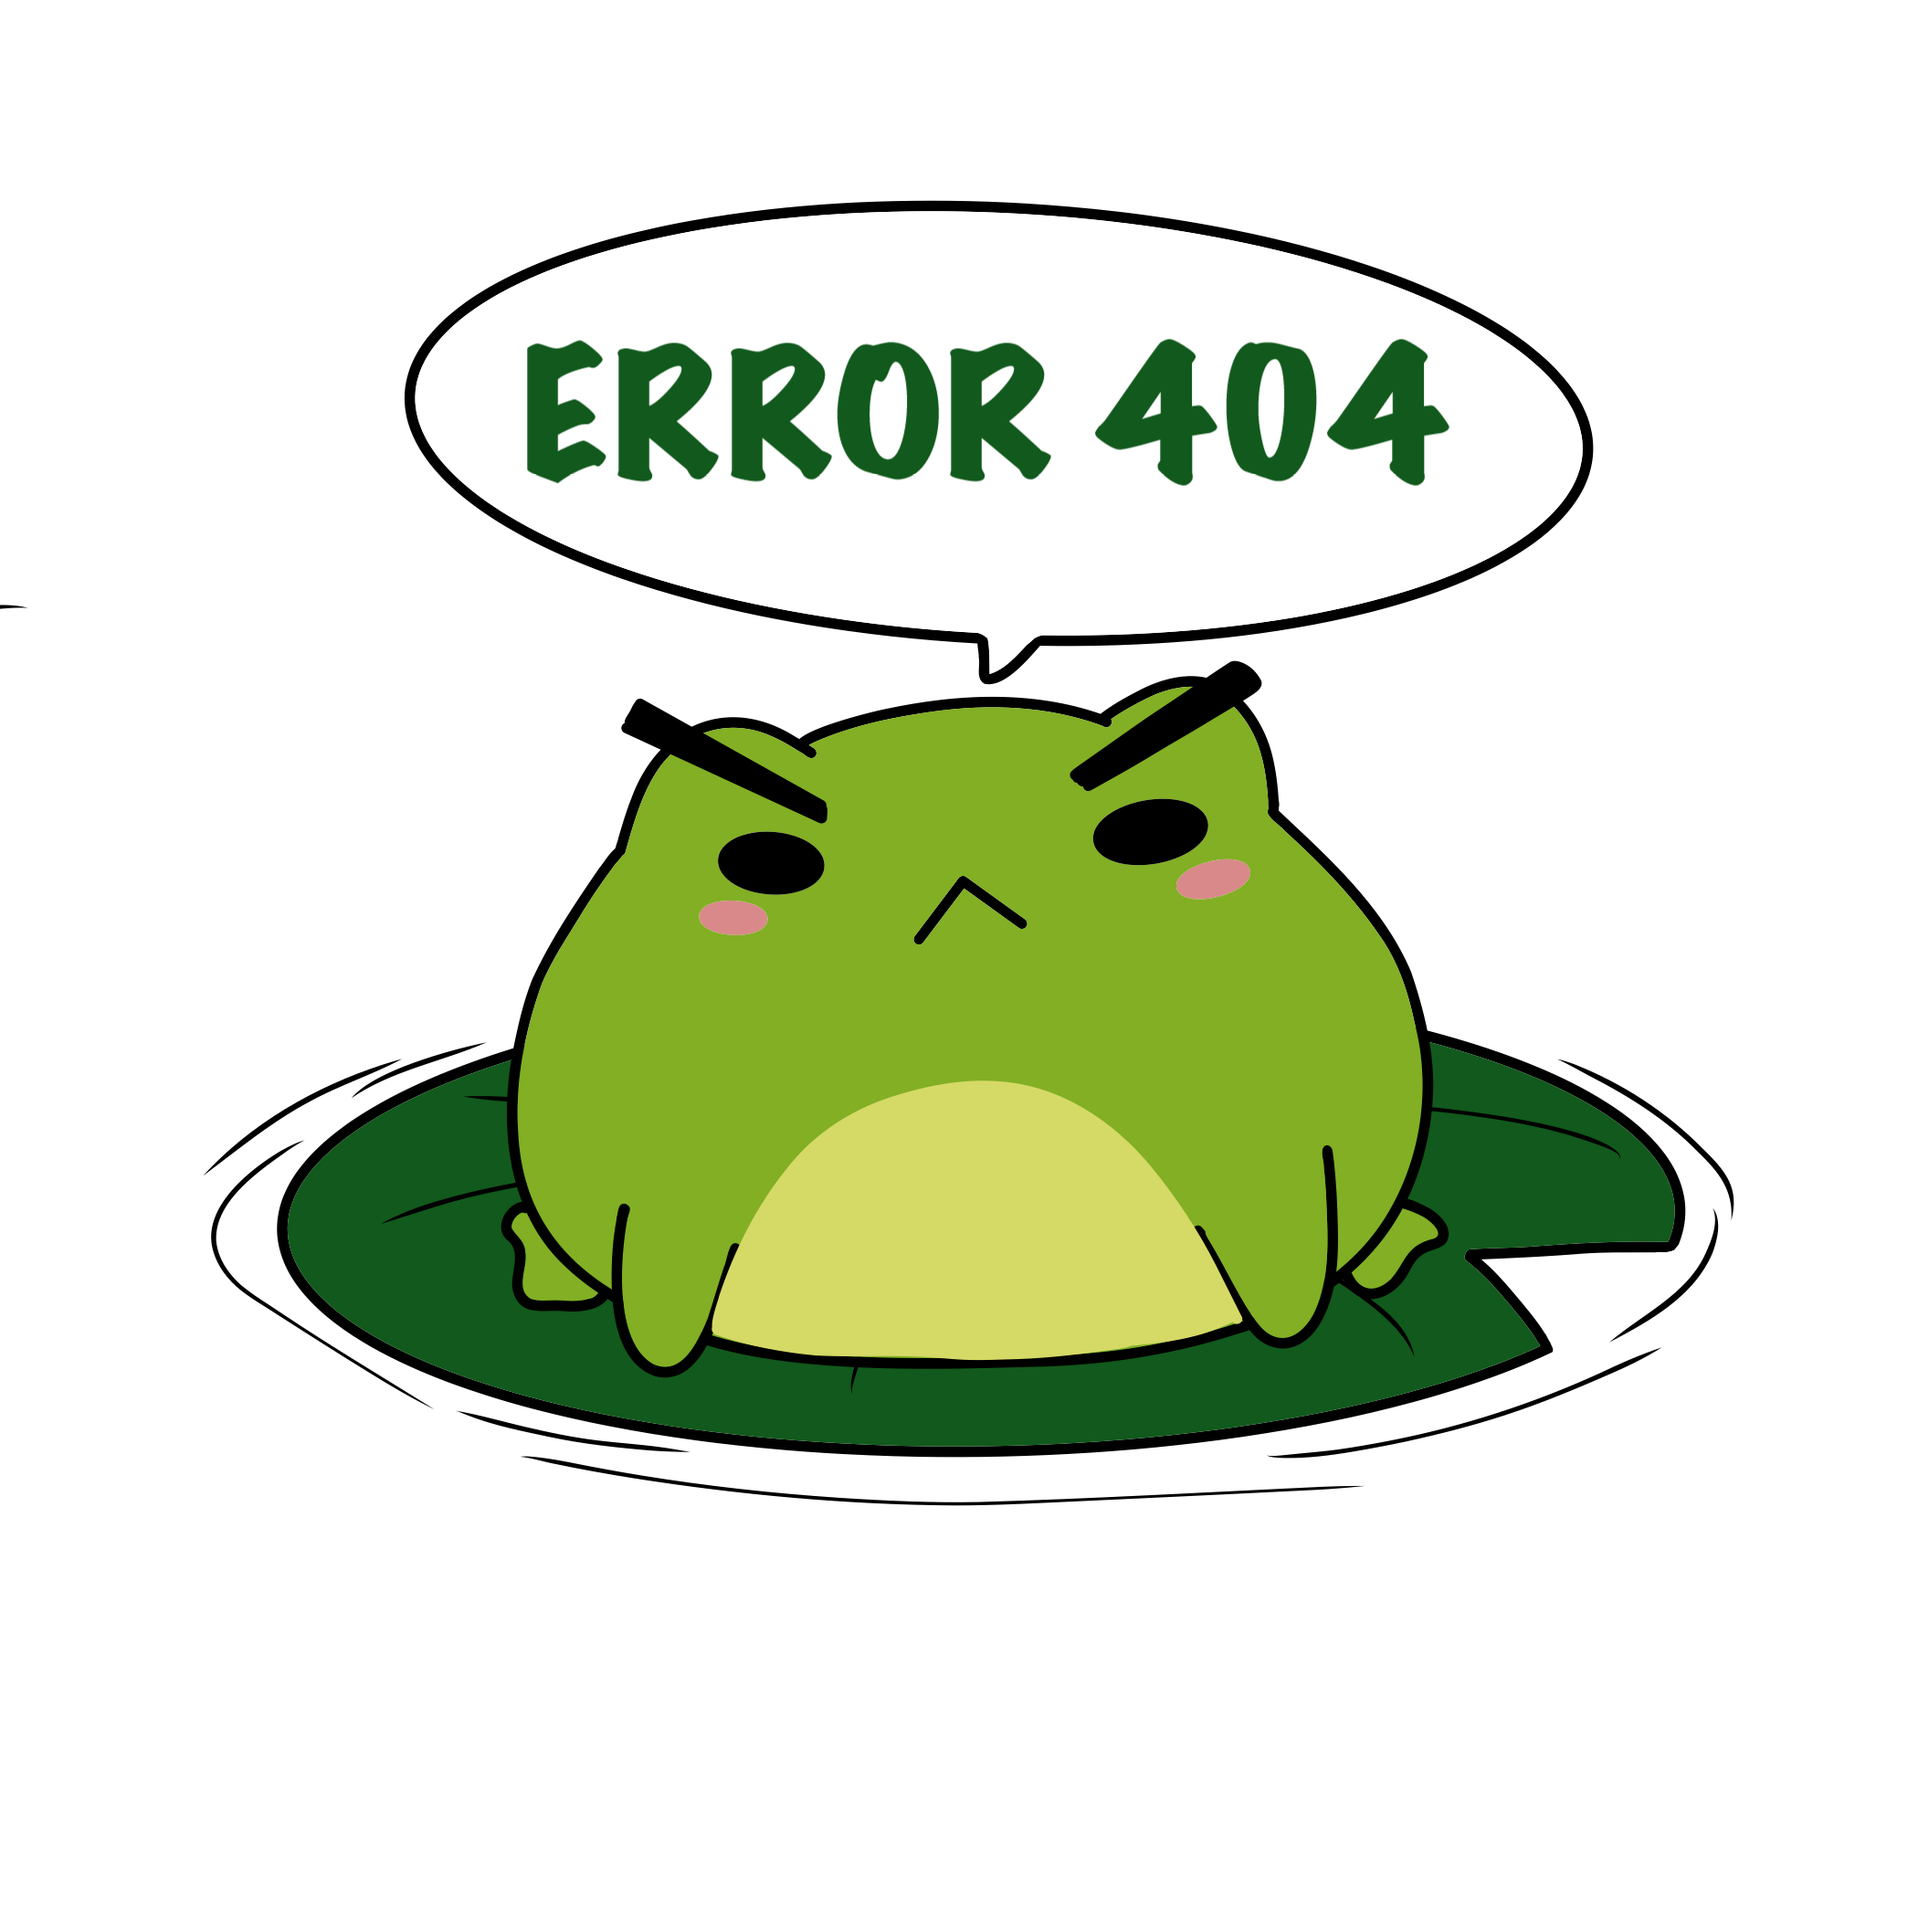
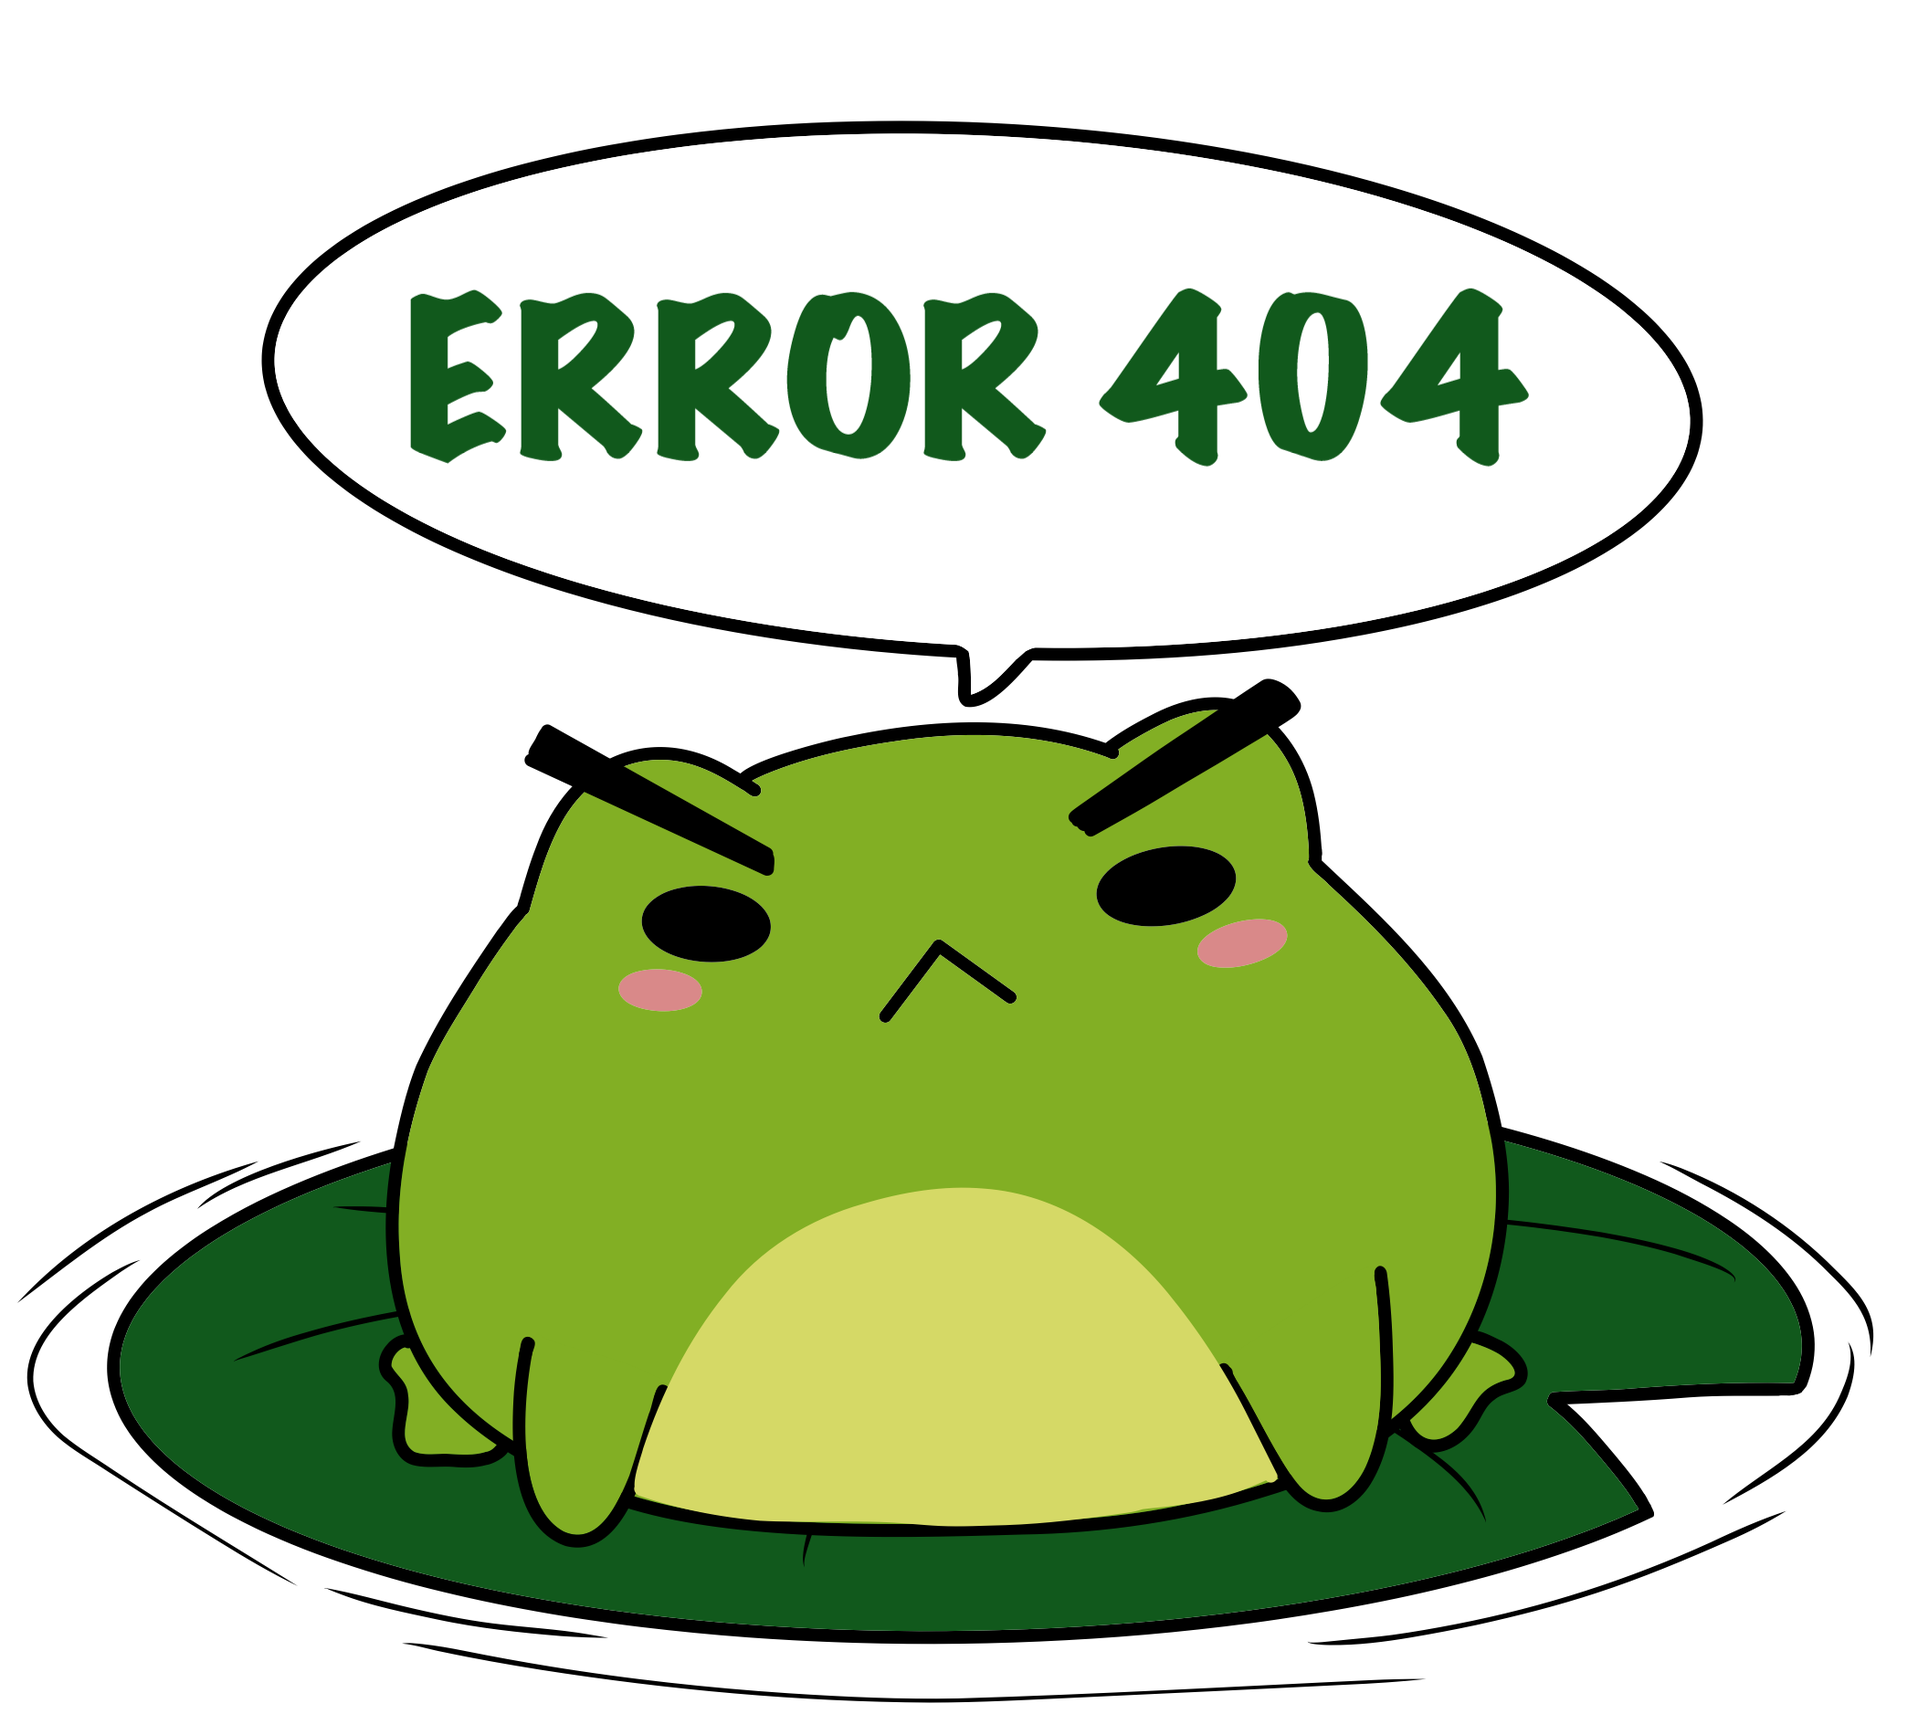
Added Error404 page

diff --git a/frontend/src/pages/NotFound.jsx b/frontend/src/pages/NotFound.jsx
@@ -1,9 +1,26 @@
-function NotFound(){
-    return <div>
-        <h1>404 Not Found</h1>
-        <p>The page you are looking for doesn't exist.</p>
-        <a href="/home">Go to Home</a>
-    </div>
+import React from 'react';
+import { useNavigate } from 'react-router-dom';
+import Button from '../components/Button';
+import '../styles/NotFound.css';
+import ErrorImage from '../assets/Error404.png';
+
+function NotFound() {
+    const navigate = useNavigate();
+
+    return (
+        <div className="notfound-container">
+            <img src={ErrorImage} alt="404 Not Found" className="notfound-image" />
+            <h2>The page you are looking for doesn't exist.</h2>
+            <div className="notfound-button-wrapper">
+                <Button
+                    type="small"
+                    text="Go to Home"
+                    onClick={() => navigate('/home')}
+                    className="bg-main-color white-color"
+                />
+            </div>
+        </div>
+    );
 }
 
 export default NotFound;

diff --git a/frontend/src/styles/NotFound.css b/frontend/src/styles/NotFound.css
@@ -1,0 +1,28 @@
+.notfound-container {
+    text-align: center;
+}
+
+.notfound-button-wrapper {
+    display: flex;
+    justify-content: center;
+    margin-top: 2rem;
+}
+
+.notfound-image {
+    max-width: 70vw;
+    max-height: 70vh;
+    height: auto;
+    width: auto;
+    align-items: center;
+    margin-bottom: 2rem;
+    object-fit: contain;
+}
+
+.bg-main-color-opacity-20 {
+    background-color: color-mix(in srgb, var(--green) 20%, transparent);
+}
+
+.full-page {
+    width: 100vw;
+    height: 100vh;
+}
